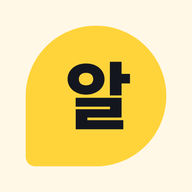
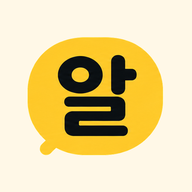
공식 로고 적용(상단바), 앱 아이콘 교체
Claude-Session: https://claude.ai/code/session_01WbjZGwTh6vcpnjQw2pfnUA

Changed region(s): [[0.125, 0.125, 0.875, 0.875], [0.2812, 0.2812, 0.7188, 0.7188]]

diff --git a/index.html b/index.html
@@ -550,8 +550,7 @@ html{scroll-snap-type:none;scroll-padding-top:72px}
 <header style="position: sticky; top: 0; z-index: 10; border-bottom: 1px solid #F0E8D6; background: rgba(255, 255, 255, 0.95)">
 <div class="wrap" style="max-width: 1200px; margin: 0 auto; padding: 12px 24px; display: flex; align-items: center; justify-content: space-between; gap: 12px">
 <a href="#top" style="display: flex; align-items: center; gap: 8px; text-decoration: none; color: #14161F">
-<span style="width: 34px; height: 34px; border-radius: 12px 12px 12px 4px; background: #FFD43B; color: #14161F; display: flex; align-items: center; justify-content: center; font-weight: 900; font-size: 17px">알</span>
-<span style="font-size: 22px; font-weight: 900; letter-spacing: -0.5px">알아줌</span>
+<img src="assets/alajoom-logo.png" alt="알아줌" width="113" height="40" style="display: block; height: 40px; width: auto">
 </a>
 <nav aria-label="주요 메뉴" style="display: flex; align-items: center; gap: 20px; font-size: 15px; font-weight: 500">
 <a class="nav-hide" href="#how" style="text-decoration: none; padding: 10px 0; color: #4A5060">음성 비서</a>

diff --git a/sw.js b/sw.js
@@ -1,5 +1,5 @@
 // 알아줌 service worker: network-first, offline fallback to cached pages
-const C = 'alajoom-v1';
+const C = 'alajoom-v2';
 self.addEventListener('install', e => { self.skipWaiting(); e.waitUntil(caches.open(C).then(c => c.addAll(['/', '/assets/icon-192.png']).catch(() => {}))); });
 self.addEventListener('activate', e => { e.waitUntil(caches.keys().then(ks => Promise.all(ks.filter(k => k !== C).map(k => caches.delete(k)))).then(() => self.clients.claim())); });
 self.addEventListener('fetch', e => {
